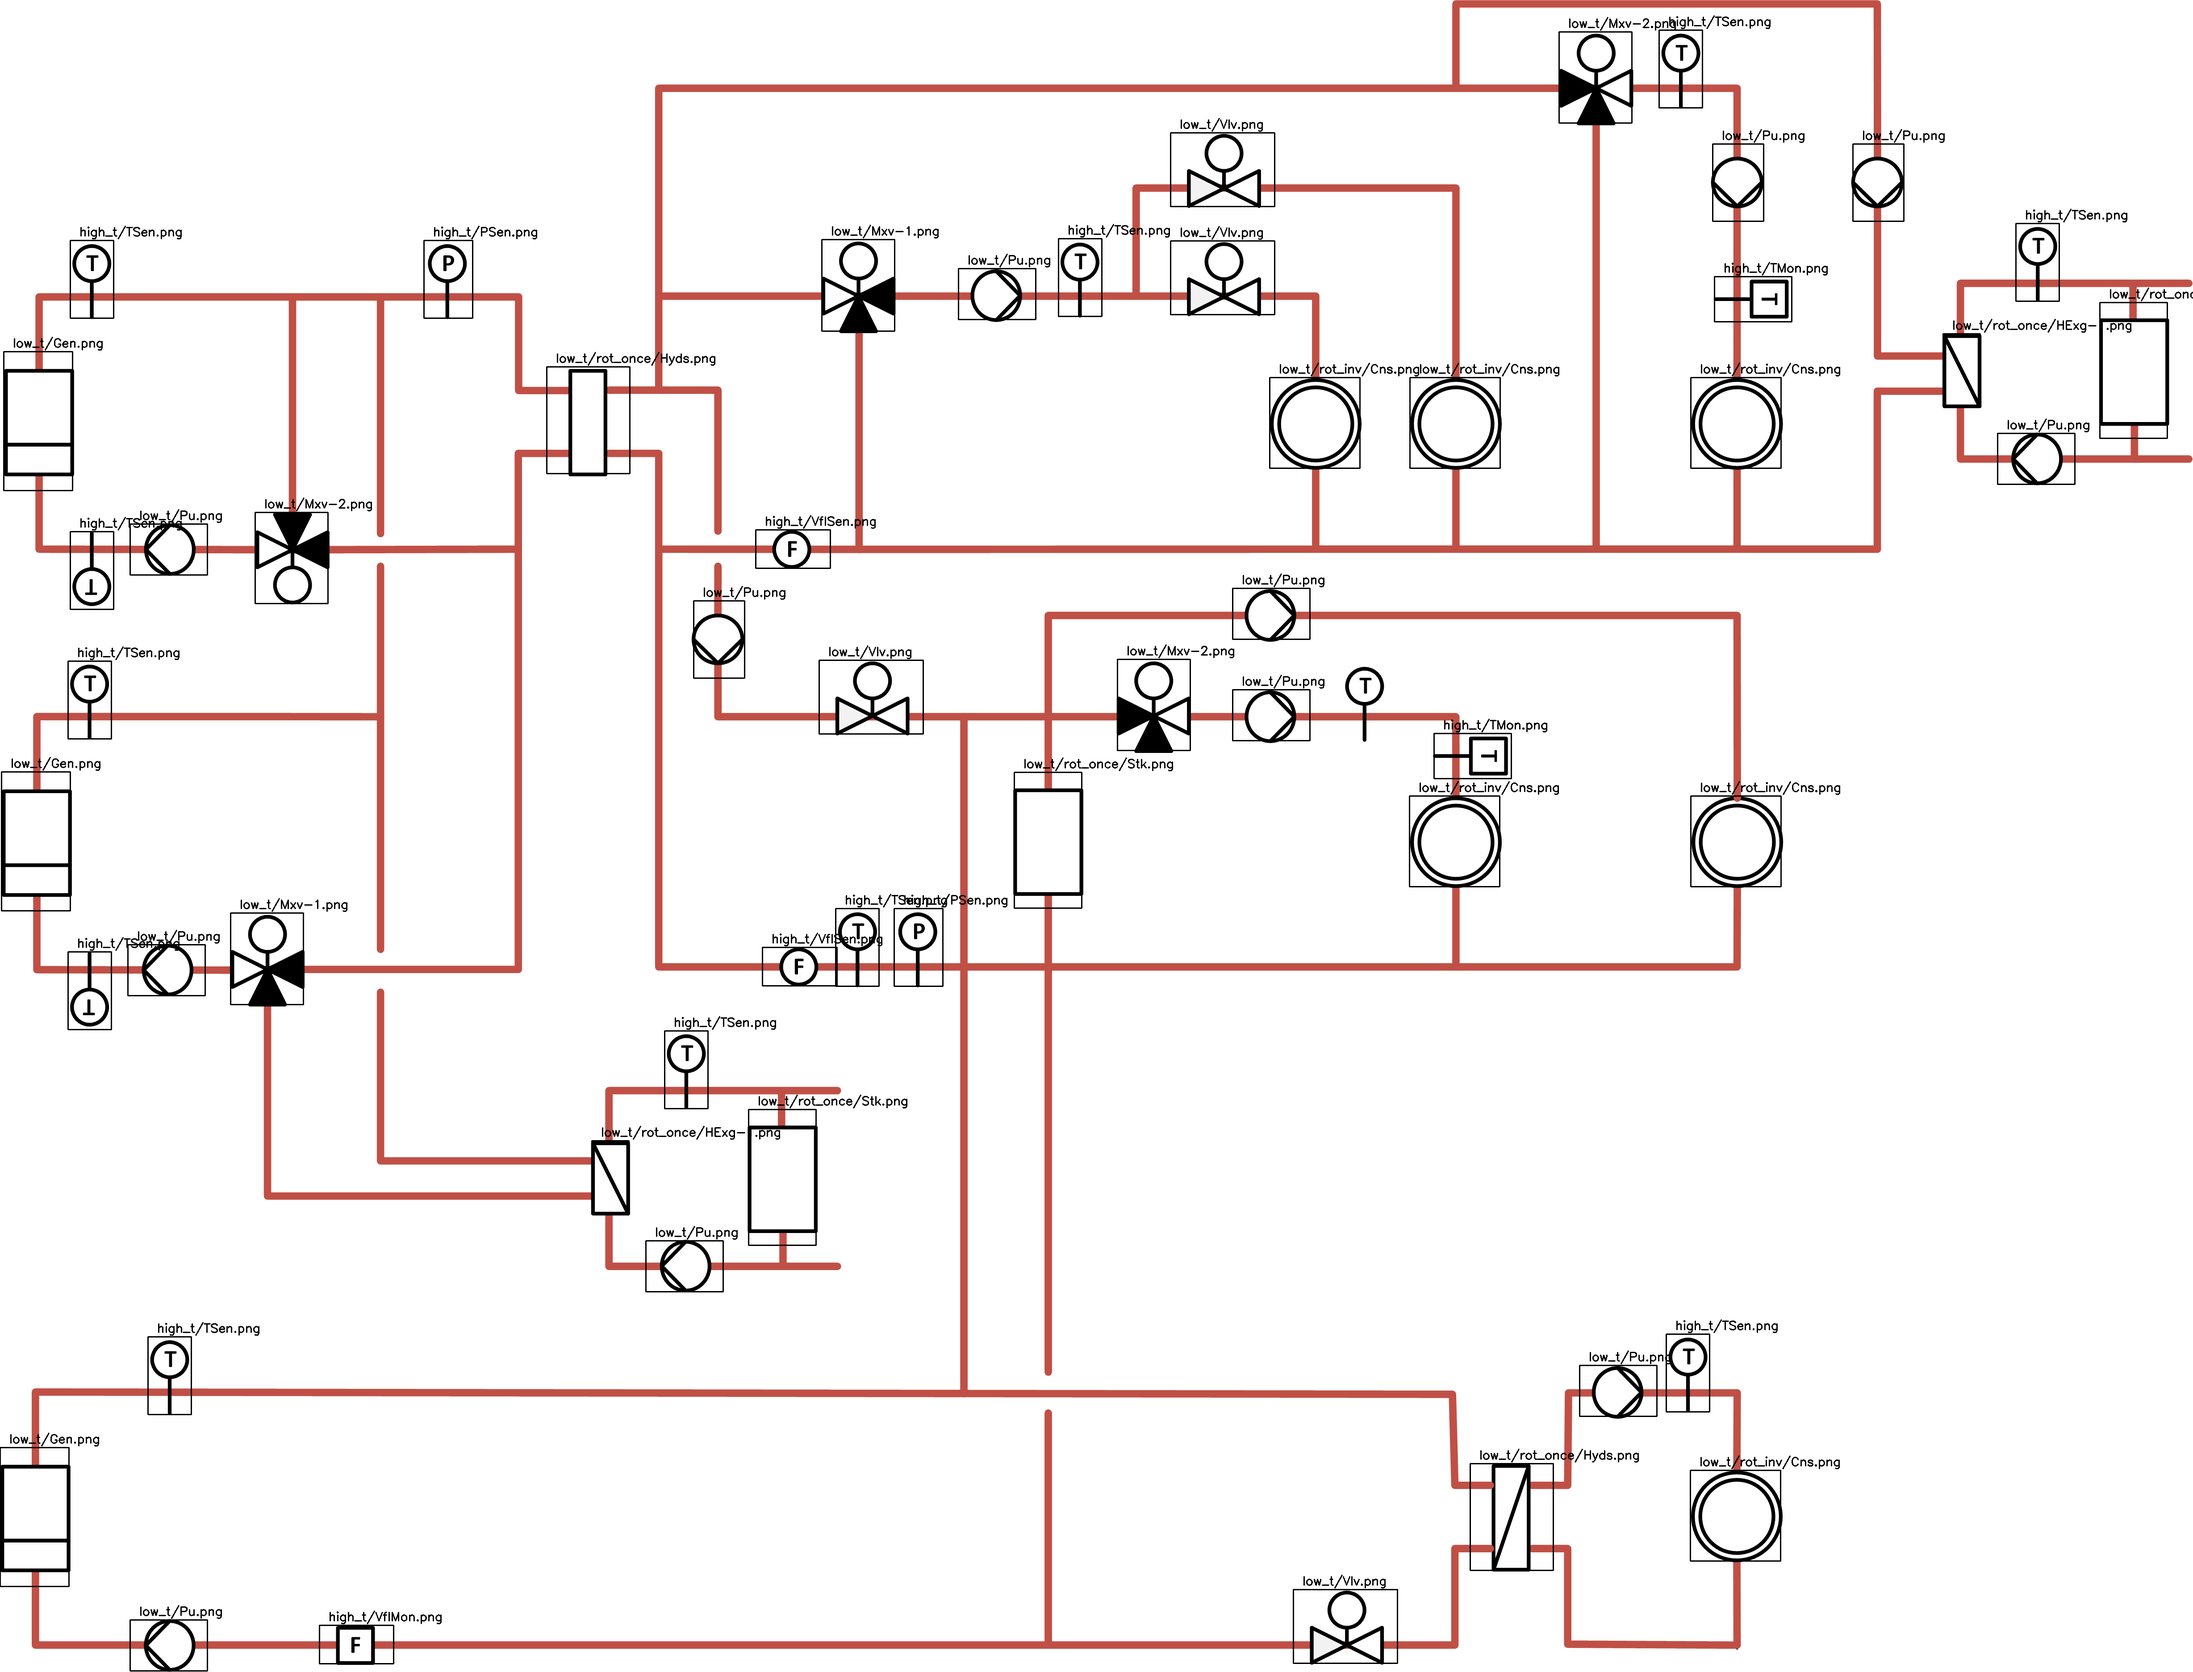
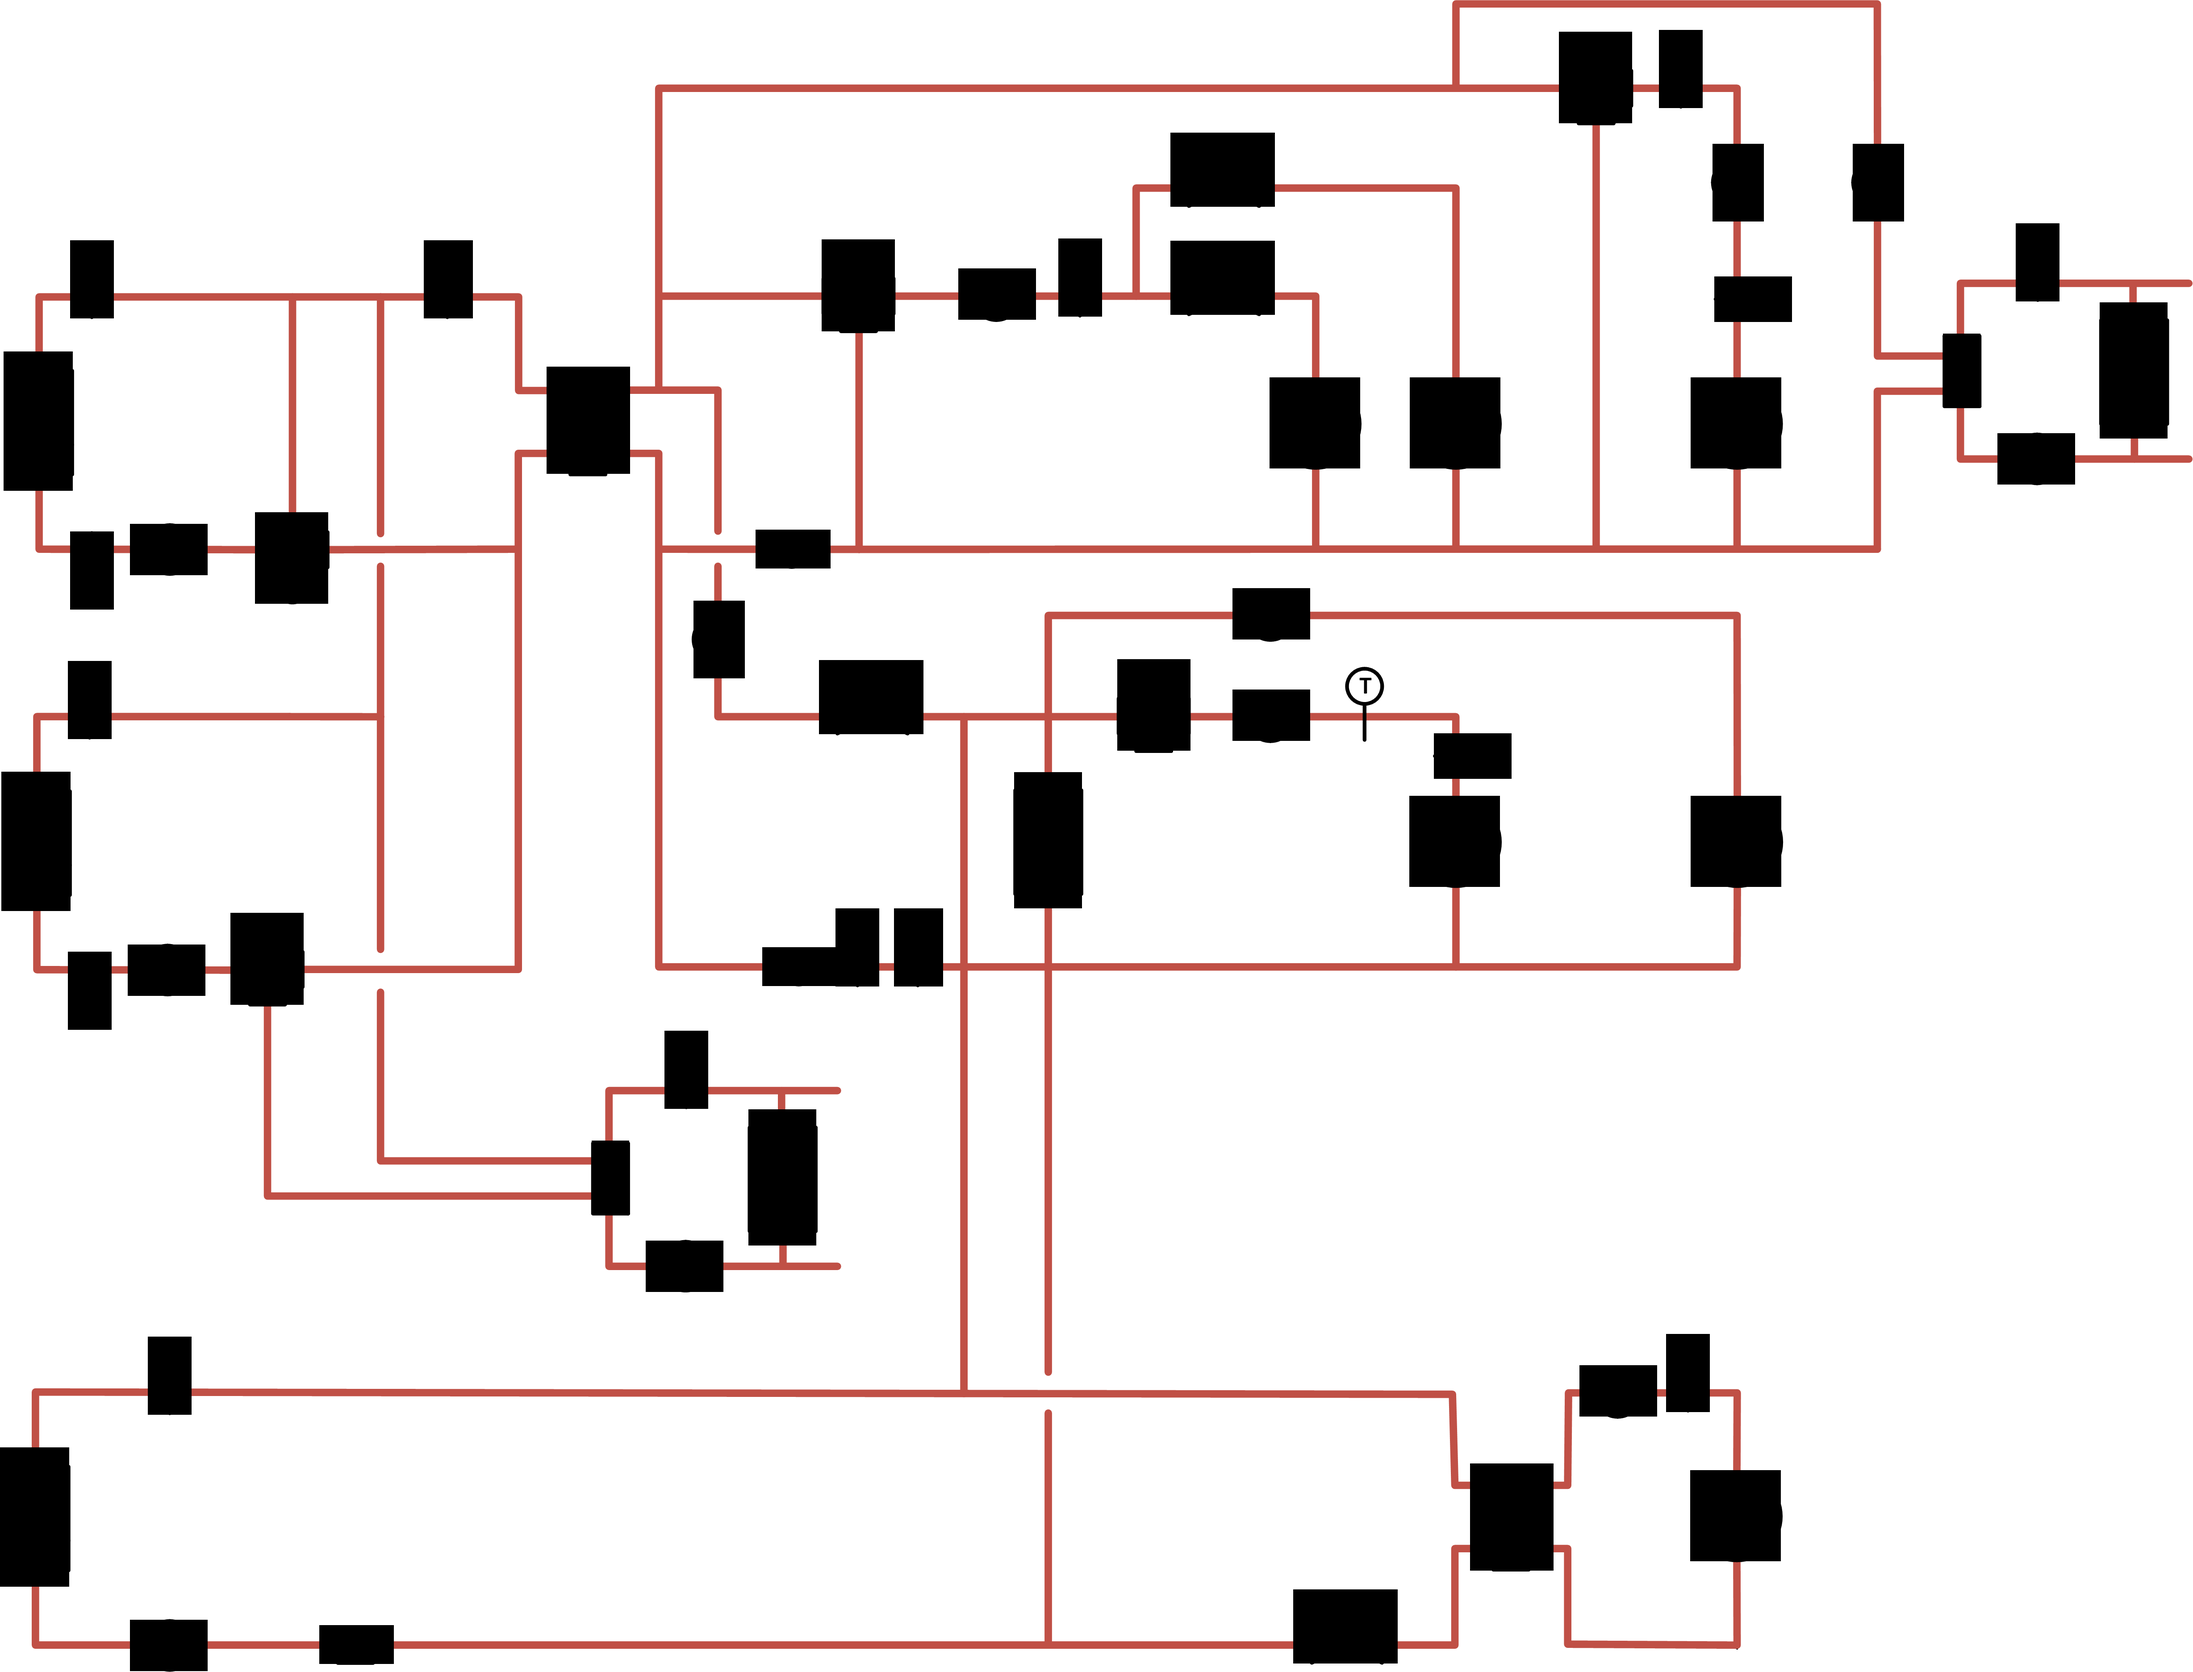
Some stuff with masks and such. No corona here.

diff --git a/find_nodes.py b/find_nodes.py
@@ -4,8 +4,10 @@ from matplotlib import pyplot as plt
 import glob, os
 import math
 
-black_out_nodes = False
-add_legend = True
+black_out_nodes = True # Set this to true to black out the found nodes
+add_legend = False # Set this to true to label the found nodes
+generate_labels = False # Set this to true to label an unlabeled image
+
 
 def posDist(a, b):
   return math.sqrt(pow((a[0]-b[0]), 2) + pow((a[1]-b[1]), 2))
@@ -53,24 +55,44 @@ def match(img_gray, img_rgb, templateName, threshold, rotMode):
       print("270 deg")
       matchImage(img_gray, img_rgb, rot270, templateName, threshold)
 
-img_rgb = cv.imread('ex4.png')
-img_gray = cv.cvtColor(img_rgb, cv.COLOR_BGR2GRAY)
+if generate_labels:
+  img_rgb = cv.imread('ex4.png')
+  img_gray = cv.cvtColor(img_rgb, cv.COLOR_BGR2GRAY)
 
-os.chdir("symbols")
-for file in glob.glob("high_t/*.png"):
-  match(img_gray, img_rgb, file, 0.88, 2)
+  os.chdir("symbols")
+  for file in glob.glob("high_t/*.png"):
+    match(img_gray, img_rgb, file, 0.88, 2)
 
-for file in glob.glob("low_t/*.png"):
-  match(img_gray, img_rgb, file, 0.8, 2)
+  for file in glob.glob("low_t/*.png"):
+    match(img_gray, img_rgb, file, 0.8, 2)
 
-for file in glob.glob("low_t/rot_inv/*.png"):
-  match(img_gray, img_rgb, file, 0.8, 0)
+  for file in glob.glob("low_t/rot_inv/*.png"):
+    match(img_gray, img_rgb, file, 0.8, 0)
 
-for file in glob.glob("low_t/rot_once/*.png"):
-  match(img_gray, img_rgb, file, 0.8, 1)
+  for file in glob.glob("low_t/rot_once/*.png"):
+    match(img_gray, img_rgb, file, 0.8, 1)
 
 
-#match(img_gray, img_rgb, "lines/Crossing.png", (r, g, b), 0.8, 1)
-#match(img_gray, img_rgb, "lines/Junction.png", (r, g, b), 0.82, 2)
+  #match(img_gray, img_rgb, "lines/Crossing.png", (r, g, b), 0.8, 1)
+  #match(img_gray, img_rgb, "lines/Junction.png", (r, g, b), 0.82, 2)
 
-cv.imwrite('../res.png', img_rgb)
+  cv.imwrite('../res.png', img_rgb)
+
+black = (0, 0, 0)
+grey = (100, 100, 100)
+white = (255, 255, 255)
+
+res_img = cv.imread('res.png')
+hsv_img = cv.cvtColor(res_img, cv.COLOR_RGB2HSV)
+line_mask = cv.inRange(hsv_img, grey, white)
+node_mask = cv.inRange(hsv_img, black, grey)
+
+kernel = np.ones((10, 10), np.uint8)
+dilated_line_mask = cv.dilate(line_mask, kernel, iterations=1)
+
+meeting_points = (node_mask & dilated_line_mask)
+
+cv.imwrite('line_mask.png', line_mask)
+cv.imwrite('node_mask.png', node_mask)
+cv.imwrite('line_mask_dilated.png', dilated_line_mask)
+cv.imwrite('meeting_points.png', meeting_points)
